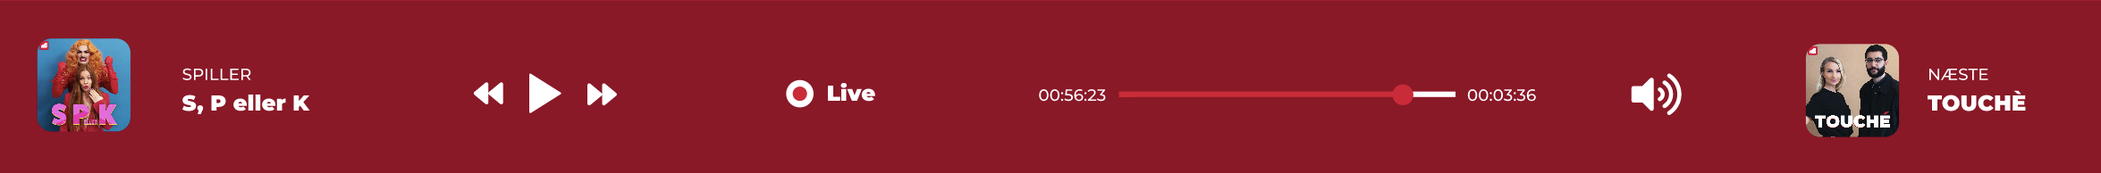
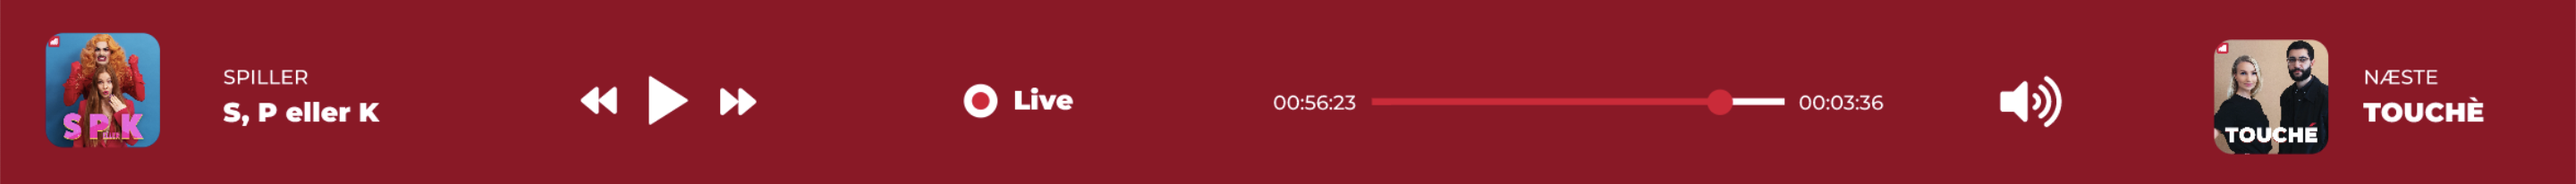
sidste rettelser (måske)

diff --git a/style.css b/style.css
@@ -68,7 +68,14 @@ Template: twentytwenty
 }
 
 /*---------------------------*/
+/*BURGERMENU*/
+.ancestor-wrapper a {
+    color: white !important;
+}
 
+.toggle-text {
+    display: none;
+}
 
 /*-------FORSIDE------*/
 #groen {
@@ -423,7 +430,7 @@ button {
 
 #filtrering {
     display: grid;
-    justify-content: right;
+    justify-content: center;
     background-color: #124248;
 }
 

diff --git a/custom.css b/custom.css
@@ -248,8 +248,8 @@ i {
 
     .afspiller_div {
         display: block;
-        position: sticky;
-        top: 48vw;
+        position: fixed;
+        bottom: 0;
         z-index: 9;
     }
 }

diff --git a/footer.php b/footer.php
@@ -17,7 +17,7 @@
     <div class="section-inner">
 
         <div class="footer_column">
-            <img src="<?php echo get_stylesheet_directory_uri(); ?>/svg/loud.svg" class="footer_logo">
+            <img src="<?php echo get_stylesheet_directory_uri(); ?>/svg/loud.svg" class="footer_logo" alt="loud logo">
         </div>
 
         <div class="footer_column">
@@ -39,15 +39,15 @@
         <div class="footer_column">
             <h2>Hold dig opdateret</h2>
             <div class="some">
-                <img src="<?php echo get_stylesheet_directory_uri(); ?>/svg/facebook.svg" class="some_icons">
-                <img src="<?php echo get_stylesheet_directory_uri(); ?>/svg/instagram.svg" class="some_icons">
-                <img src="<?php echo get_stylesheet_directory_uri(); ?>/svg/youtube.svg" class="some_icons">
+                <img src="<?php echo get_stylesheet_directory_uri(); ?>/svg/facebook.svg" class="some_icons" alt="facebook ikon">
+                <img src="<?php echo get_stylesheet_directory_uri(); ?>/svg/instagram.svg" class="some_icons" alt="instagram ikon">
+                <img src="<?php echo get_stylesheet_directory_uri(); ?>/svg/youtube.svg" class="some_icons" alt="youtube ikon">
             </div>
         </div>
 
         <div class="footer_column apple_google">
-            <img src="<?php echo get_stylesheet_directory_uri(); ?>/images/googleplay.png">
-            <img src="<?php echo get_stylesheet_directory_uri(); ?>/images/appstore.svg" class="appstore">
+            <img src="<?php echo get_stylesheet_directory_uri(); ?>/images/googleplay.png" alt="googleplay ikon">
+            <img src="<?php echo get_stylesheet_directory_uri(); ?>/images/appstore.svg" class="appstore" alt="appstore ikon">
         </div>
 
 

diff --git a/single-podcast.php b/single-podcast.php
@@ -18,11 +18,11 @@ get_header();
             <div class="single_col">
                 <img class="single_pic" src="" alt="">
                 <div class="lytmedher">
-                    <img src="<?php echo get_stylesheet_directory_uri(); ?>/svg/loud.svg">
-                    <img src="<?php echo get_stylesheet_directory_uri(); ?>/svg/googlepodcast.svg">
-                    <img src="<?php echo get_stylesheet_directory_uri(); ?>/svg/podcastplayer.svg">
-                    <img src="<?php echo get_stylesheet_directory_uri(); ?>/svg/spotify.svg">
-                    <img src="<?php echo get_stylesheet_directory_uri(); ?>/svg/podimo.svg">
+                    <img src="<?php echo get_stylesheet_directory_uri(); ?>/svg/loud.svg" alt="loud logo">
+                    <img src="<?php echo get_stylesheet_directory_uri(); ?>/svg/googlepodcast.svg" alt="google podcast logo">
+                    <img src="<?php echo get_stylesheet_directory_uri(); ?>/svg/podcastplayer.svg" alt="podcastplayer">
+                    <img src="<?php echo get_stylesheet_directory_uri(); ?>/svg/spotify.svg" alt="spotify logo">
+                    <img src="<?php echo get_stylesheet_directory_uri(); ?>/svg/podimo.svg" alt="podimo logo">
                 </div>
             </div>
             <div class="single_tekst">

diff --git a/single-episode.php b/single-episode.php
@@ -18,11 +18,11 @@ get_header();
             <div class="single_col">
                 <img class="pic" src="" alt="">
                 <div class="lytmedher">
-                    <img src="<?php echo get_stylesheet_directory_uri(); ?>/svg/loud.svg">
-                    <img src="<?php echo get_stylesheet_directory_uri(); ?>/svg/googlepodcast.svg">
-                    <img src="<?php echo get_stylesheet_directory_uri(); ?>/svg/podcastplayer.svg">
-                    <img src="<?php echo get_stylesheet_directory_uri(); ?>/svg/spotify.svg">
-                    <img src="<?php echo get_stylesheet_directory_uri(); ?>/svg/podimo.svg">
+                    <img src="<?php echo get_stylesheet_directory_uri(); ?>/svg/loud.svg" alt="loud logo">
+                    <img src="<?php echo get_stylesheet_directory_uri(); ?>/svg/googlepodcast.svg" alt="google podcast logo">
+                    <img src="<?php echo get_stylesheet_directory_uri(); ?>/svg/podcastplayer.svg" alt="podcastplayer">
+                    <img src="<?php echo get_stylesheet_directory_uri(); ?>/svg/spotify.svg" alt="spotify logo">
+                    <img src="<?php echo get_stylesheet_directory_uri(); ?>/svg/podimo.svg" alt="podimo logo">
                 </div>
             </div>
             <div class="single_episode_div">

diff --git a/front-page.php b/front-page.php
@@ -45,7 +45,7 @@
 
 <div class="afspiller_div">
     <div class="afspiller">
-        <img src="<?php echo get_stylesheet_directory_uri(); ?>/images/afspiller.png">
+        <img src="<?php echo get_stylesheet_directory_uri(); ?>/images/afspiller.png" alt="afspilningsbar">
     </div>
 </div>
 
